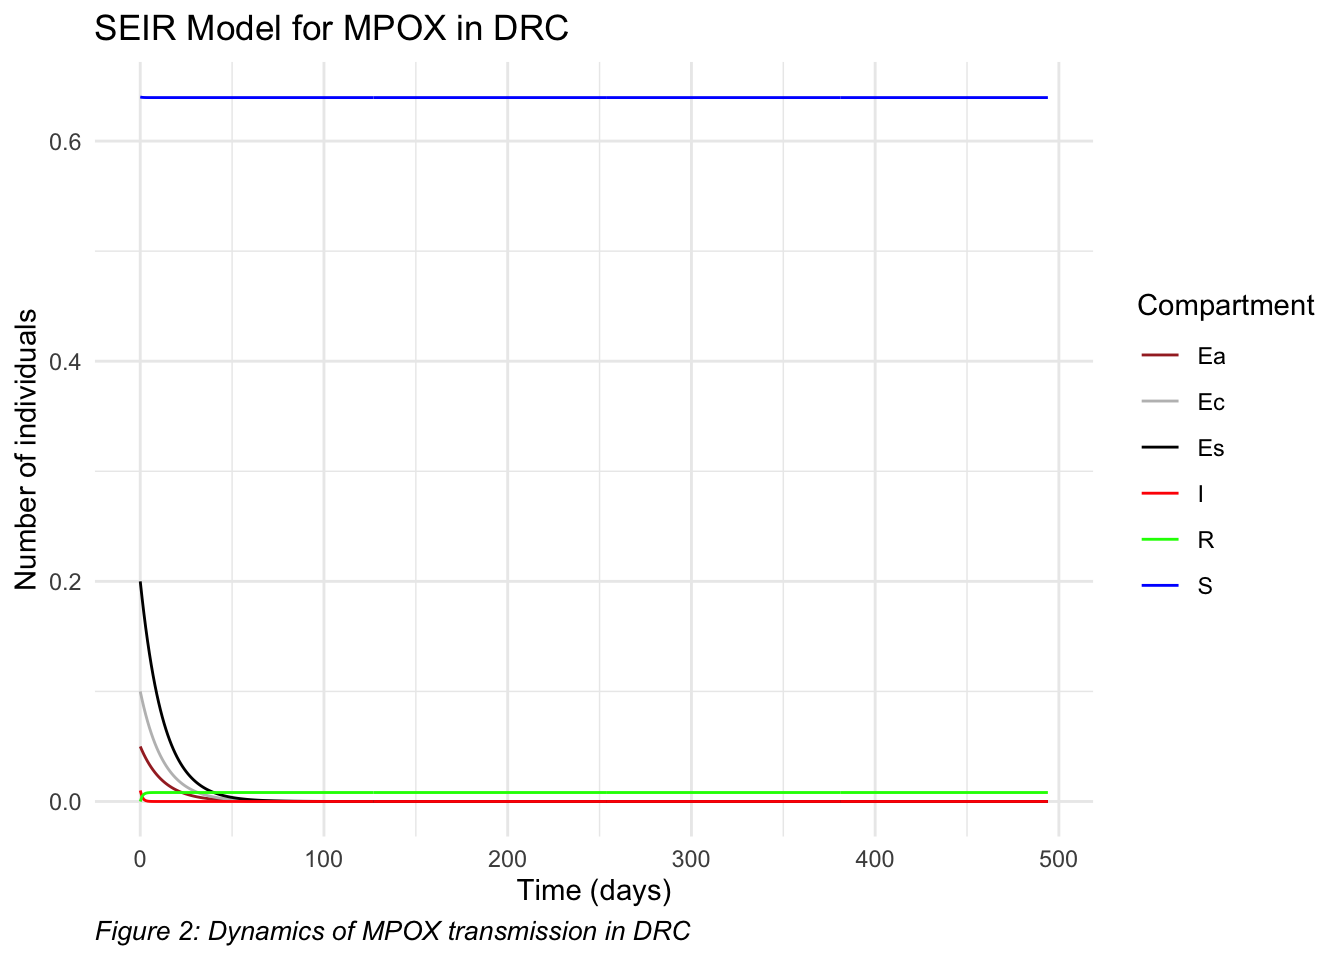
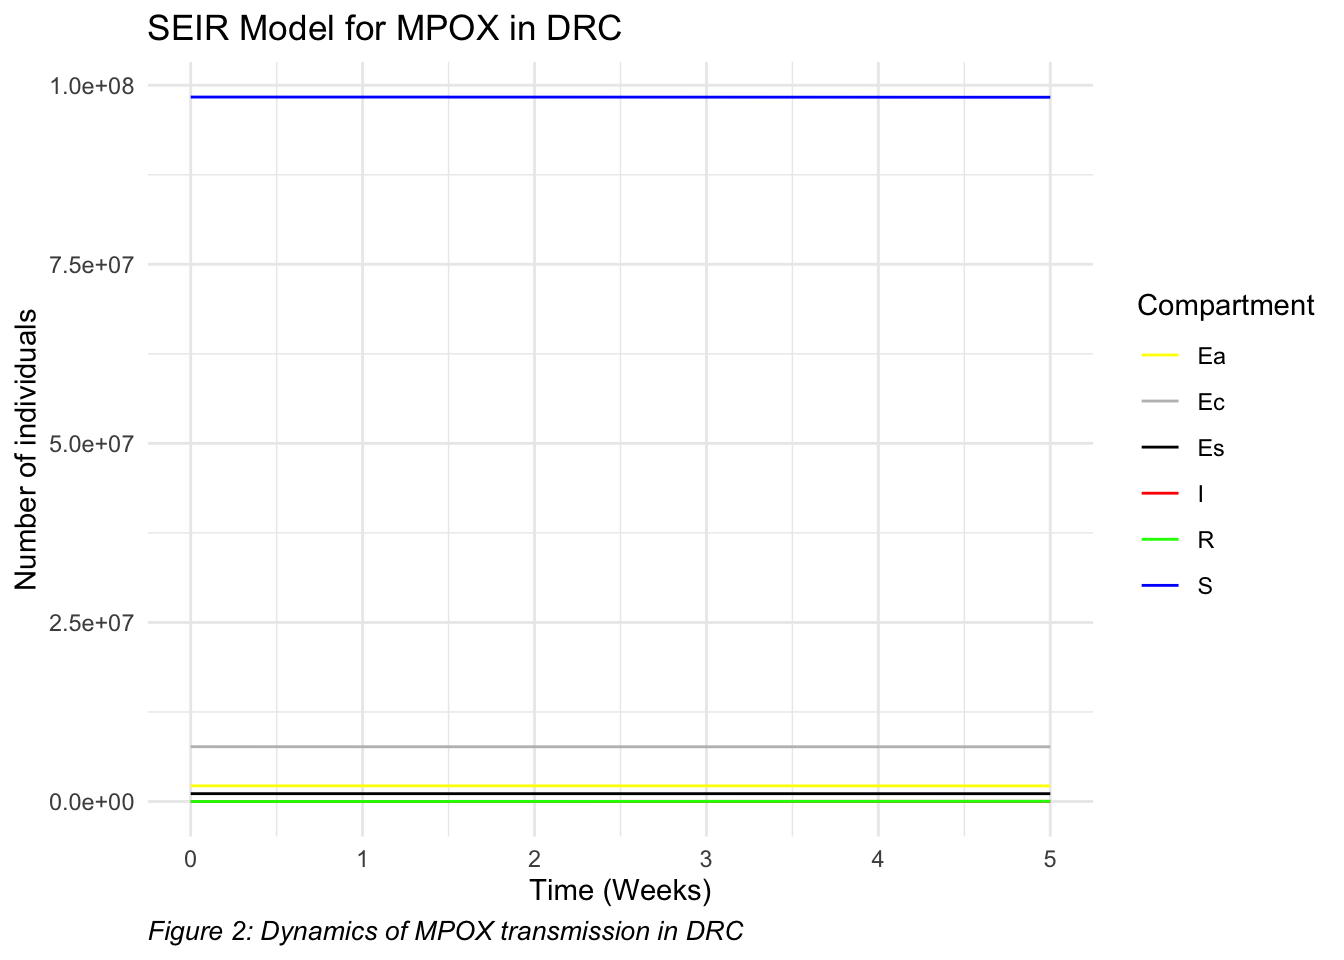
upgraged graph stimulated

diff --git a/mpox.html b/mpox.html
@@ -185,27 +185,24 @@ window.Quarto = {
 </section>
 <section id="set-parameters-and-initial-states" class="level1">
 <h1>Set parameters and initial states</h1>
-<p>N= 1 (Total Population)</p>
-<p>I0 = 0.01 (Initial Infected)</p>
-<p>R0 = 0 (Initial removed)</p>
 <div class="cell" data-layout-align="center">
-<div class="sourceCode cell-code" id="cb2"><pre class="sourceCode r code-with-copy"><code class="sourceCode r"><span id="cb2-1"><a href="#cb2-1" aria-hidden="true" tabindex="-1"></a>N <span class="ot">&lt;-</span> <span class="dv">1</span> <span class="co"># Total population</span></span>
-<span id="cb2-2"><a href="#cb2-2" aria-hidden="true" tabindex="-1"></a>Es0 <span class="ot">&lt;-</span> <span class="fl">0.2</span> </span>
-<span id="cb2-3"><a href="#cb2-3" aria-hidden="true" tabindex="-1"></a>Ec0 <span class="ot">&lt;-</span> <span class="fl">0.1</span></span>
-<span id="cb2-4"><a href="#cb2-4" aria-hidden="true" tabindex="-1"></a>Ea0 <span class="ot">&lt;-</span> <span class="fl">0.05</span>    </span>
-<span id="cb2-5"><a href="#cb2-5" aria-hidden="true" tabindex="-1"></a>I0 <span class="ot">&lt;-</span> <span class="fl">0.01</span> <span class="co"># Initial number of infected individuals </span></span>
+<div class="sourceCode cell-code" id="cb2"><pre class="sourceCode r code-with-copy"><code class="sourceCode r"><span id="cb2-1"><a href="#cb2-1" aria-hidden="true" tabindex="-1"></a>N <span class="ot">&lt;-</span> <span class="dv">109276265</span> <span class="co"># Total population</span></span>
+<span id="cb2-2"><a href="#cb2-2" aria-hidden="true" tabindex="-1"></a>Es0 <span class="ot">&lt;-</span> <span class="fl">0.01</span><span class="sc">*</span>N</span>
+<span id="cb2-3"><a href="#cb2-3" aria-hidden="true" tabindex="-1"></a>Ec0 <span class="ot">&lt;-</span> <span class="fl">0.07</span><span class="sc">*</span>N</span>
+<span id="cb2-4"><a href="#cb2-4" aria-hidden="true" tabindex="-1"></a>Ea0 <span class="ot">&lt;-</span> <span class="fl">0.02</span><span class="sc">*</span>N   </span>
+<span id="cb2-5"><a href="#cb2-5" aria-hidden="true" tabindex="-1"></a>I0 <span class="ot">&lt;-</span> <span class="dv">23</span> <span class="co"># Initial number of infected individuals </span></span>
 <span id="cb2-6"><a href="#cb2-6" aria-hidden="true" tabindex="-1"></a>R0 <span class="ot">&lt;-</span> <span class="dv">0</span> <span class="co"># Initial number of recovered individuals </span></span>
 <span id="cb2-7"><a href="#cb2-7" aria-hidden="true" tabindex="-1"></a>S0 <span class="ot">&lt;-</span> N <span class="sc">-</span> I0 <span class="sc">-</span> R0 <span class="sc">-</span> Es0 <span class="sc">-</span> Ec0 <span class="sc">-</span> Ea0 <span class="co"># Initial number of susceptible individuals </span></span>
-<span id="cb2-8"><a href="#cb2-8" aria-hidden="true" tabindex="-1"></a>beta1 <span class="ot">&lt;-</span> <span class="fl">0.05</span> <span class="co"># Transmission rate by sexual contact</span></span>
-<span id="cb2-9"><a href="#cb2-9" aria-hidden="true" tabindex="-1"></a>beta2 <span class="ot">&lt;-</span> <span class="fl">0.01</span>  <span class="co"># Transmission rate by direct contact</span></span>
-<span id="cb2-10"><a href="#cb2-10" aria-hidden="true" tabindex="-1"></a>beta3 <span class="ot">&lt;-</span> <span class="fl">0.005</span>  <span class="co"># Transmission rate by airborne</span></span>
-<span id="cb2-11"><a href="#cb2-11" aria-hidden="true" tabindex="-1"></a>omega <span class="ot">&lt;-</span> <span class="fl">0.08</span>   <span class="co"># Infected rate from different transmission routes</span></span>
-<span id="cb2-12"><a href="#cb2-12" aria-hidden="true" tabindex="-1"></a>theta <span class="ot">&lt;-</span> <span class="fl">0.7</span>    <span class="co"># Recovery rate of infected individuals due to all other unreported causes</span></span>
-<span id="cb2-13"><a href="#cb2-13" aria-hidden="true" tabindex="-1"></a>lambda <span class="ot">&lt;-</span> <span class="fl">0.2</span>  <span class="co"># death rate due the mpox </span></span></code><button title="Copy to Clipboard" class="code-copy-button"><i class="bi"></i></button></pre></div>
+<span id="cb2-8"><a href="#cb2-8" aria-hidden="true" tabindex="-1"></a>beta1 <span class="ot">&lt;-</span> <span class="fl">0.01</span> <span class="co"># Transmission rate by sexual contact</span></span>
+<span id="cb2-9"><a href="#cb2-9" aria-hidden="true" tabindex="-1"></a>beta2 <span class="ot">&lt;-</span> <span class="fl">0.4</span>  <span class="co"># Transmission rate by direct contact</span></span>
+<span id="cb2-10"><a href="#cb2-10" aria-hidden="true" tabindex="-1"></a>beta3 <span class="ot">&lt;-</span> <span class="fl">0.02</span>  <span class="co"># Transmission rate by airborne</span></span>
+<span id="cb2-11"><a href="#cb2-11" aria-hidden="true" tabindex="-1"></a>omega <span class="ot">&lt;-</span> <span class="fl">0.001</span>   <span class="co"># Infected rate from different transmission routes</span></span>
+<span id="cb2-12"><a href="#cb2-12" aria-hidden="true" tabindex="-1"></a>theta <span class="ot">&lt;-</span> <span class="dv">1</span><span class="sc">/</span><span class="dv">2</span>    <span class="co"># Recovery rate of infected individuals due to all other unreported causes</span></span>
+<span id="cb2-13"><a href="#cb2-13" aria-hidden="true" tabindex="-1"></a><span class="co">#lambda &lt;- 1/I0  # death rate due the mpox i.e total death by total population </span></span></code><button title="Copy to Clipboard" class="code-copy-button"><i class="bi"></i></button></pre></div>
 </div>
 </section>
-<section id="intial-states" class="level1">
-<h1>Intial states</h1>
+<section id="initial-states" class="level1">
+<h1>Initial states</h1>
 </section>
 <section id="parameters" class="level1">
 <h1>Parameters</h1>
@@ -213,17 +210,17 @@ window.Quarto = {
 <section id="time" class="level1">
 <h1>Time</h1>
 <div class="cell" data-layout-align="center">
-<div class="sourceCode cell-code" id="cb3"><pre class="sourceCode r code-with-copy"><code class="sourceCode r"><span id="cb3-1"><a href="#cb3-1" aria-hidden="true" tabindex="-1"></a>first_case_date <span class="ot">&lt;-</span> <span class="fu">ymd</span>(<span class="st">"2022-01-09"</span>)  <span class="co"># Date of first case</span></span>
+<div class="sourceCode cell-code" id="cb3"><pre class="sourceCode r code-with-copy"><code class="sourceCode r"><span id="cb3-1"><a href="#cb3-1" aria-hidden="true" tabindex="-1"></a>first_case_date <span class="ot">&lt;-</span> <span class="fu">ymd</span>(<span class="st">"2024-01-07"</span>)  <span class="co"># Date of first case</span></span>
 <span id="cb3-2"><a href="#cb3-2" aria-hidden="true" tabindex="-1"></a>end_date <span class="ot">&lt;-</span> <span class="fu">ymd</span>(<span class="st">"2024-09-24"</span>)  <span class="co"># End date</span></span>
 <span id="cb3-3"><a href="#cb3-3" aria-hidden="true" tabindex="-1"></a></span>
 <span id="cb3-4"><a href="#cb3-4" aria-hidden="true" tabindex="-1"></a>duration <span class="ot">&lt;-</span> <span class="fu">as.numeric</span>(end_date <span class="sc">-</span> first_case_date)</span>
-<span id="cb3-5"><a href="#cb3-5" aria-hidden="true" tabindex="-1"></a>duration <span class="ot">&lt;-</span> duration<span class="sc">/</span><span class="dv">2</span></span>
+<span id="cb3-5"><a href="#cb3-5" aria-hidden="true" tabindex="-1"></a>duration <span class="ot">&lt;-</span> duration<span class="sc">/</span><span class="dv">52</span></span>
 <span id="cb3-6"><a href="#cb3-6" aria-hidden="true" tabindex="-1"></a></span>
 <span id="cb3-7"><a href="#cb3-7" aria-hidden="true" tabindex="-1"></a>times <span class="ot">&lt;-</span> <span class="fu">seq</span>(<span class="dv">0</span>, duration, <span class="at">by =</span> <span class="dv">1</span>)</span></code><button title="Copy to Clipboard" class="code-copy-button"><i class="bi"></i></button></pre></div>
 </div>
 </section>
 <section id="solve-model" class="level1">
-<h1>solve model</h1>
+<h1>Solve model</h1>
 <div class="cell" data-layout-align="center">
 <div class="sourceCode cell-code" id="cb4"><pre class="sourceCode r code-with-copy"><code class="sourceCode r"><span id="cb4-1"><a href="#cb4-1" aria-hidden="true" tabindex="-1"></a>solution <span class="ot">&lt;-</span>  <span class="fu">lsoda</span>(</span>
 <span id="cb4-2"><a href="#cb4-2" aria-hidden="true" tabindex="-1"></a>  <span class="at">y=</span>initial_state,</span>
@@ -235,25 +232,30 @@ window.Quarto = {
 <span id="cb4-8"><a href="#cb4-8" aria-hidden="true" tabindex="-1"></a>df <span class="ot">&lt;-</span> <span class="fu">as.data.frame</span>(solution) <span class="co">#convert to dataframe</span></span></code><button title="Copy to Clipboard" class="code-copy-button"><i class="bi"></i></button></pre></div>
 </div>
 </section>
+<section id="section" class="level1">
+<h1></h1>
+</section>
 <section id="plot" class="level1">
 <h1>Plot</h1>
 <div class="cell" data-layout-align="center">
-<div class="sourceCode cell-code" id="cb5"><pre class="sourceCode r code-with-copy"><code class="sourceCode r"><span id="cb5-1"><a href="#cb5-1" aria-hidden="true" tabindex="-1"></a>result_long <span class="ot">&lt;-</span> <span class="fu">pivot_longer</span>(df, <span class="at">cols =</span> <span class="sc">-</span>time, <span class="at">names_to =</span> <span class="st">"Compartment"</span>, <span class="at">values_to =</span> <span class="st">"Population"</span>)</span>
+<div class="sourceCode cell-code" id="cb5"><pre class="sourceCode r code-with-copy"><code class="sourceCode r"><span id="cb5-1"><a href="#cb5-1" aria-hidden="true" tabindex="-1"></a>result_long <span class="ot">&lt;-</span> <span class="fu">pivot_longer</span>(df, <span class="at">cols =</span> <span class="sc">-</span>time , <span class="at">names_to =</span> <span class="st">"Compartment"</span>, <span class="at">values_to =</span> <span class="st">"Population"</span>)</span>
 <span id="cb5-2"><a href="#cb5-2" aria-hidden="true" tabindex="-1"></a></span>
-<span id="cb5-3"><a href="#cb5-3" aria-hidden="true" tabindex="-1"></a><span class="fu">ggplot</span>(result_long, <span class="fu">aes</span>(<span class="at">x =</span> time, </span>
+<span id="cb5-3"><a href="#cb5-3" aria-hidden="true" tabindex="-1"></a>p<span class="ot">=</span><span class="fu">ggplot</span>(result_long, <span class="fu">aes</span>(<span class="at">x =</span> time, </span>
 <span id="cb5-4"><a href="#cb5-4" aria-hidden="true" tabindex="-1"></a>                        <span class="at">y =</span> Population, </span>
 <span id="cb5-5"><a href="#cb5-5" aria-hidden="true" tabindex="-1"></a>                        <span class="at">color =</span> Compartment)) <span class="sc">+</span></span>
 <span id="cb5-6"><a href="#cb5-6" aria-hidden="true" tabindex="-1"></a>  <span class="fu">geom_line</span>() <span class="sc">+</span></span>
-<span id="cb5-7"><a href="#cb5-7" aria-hidden="true" tabindex="-1"></a>  <span class="fu">labs</span>(<span class="at">x =</span> <span class="st">"Time (days)"</span>, <span class="at">y =</span> <span class="st">"Number of individuals"</span>,</span>
+<span id="cb5-7"><a href="#cb5-7" aria-hidden="true" tabindex="-1"></a>  <span class="fu">labs</span>(<span class="at">x =</span> <span class="st">"Time (Weeks)"</span>, <span class="at">y =</span> <span class="st">"Number of individuals"</span>,</span>
 <span id="cb5-8"><a href="#cb5-8" aria-hidden="true" tabindex="-1"></a>       <span class="at">title =</span> <span class="st">"SEIR Model for MPOX in DRC"</span>,</span>
 <span id="cb5-9"><a href="#cb5-9" aria-hidden="true" tabindex="-1"></a>       <span class="at">caption =</span> <span class="st">"Figure 2: Dynamics of MPOX transmission in DRC"</span>) <span class="sc">+</span></span>
-<span id="cb5-10"><a href="#cb5-10" aria-hidden="true" tabindex="-1"></a>  <span class="fu">scale_color_manual</span>(<span class="at">values =</span> <span class="fu">c</span>(<span class="st">"S"</span> <span class="ot">=</span> <span class="st">"blue"</span>, </span>
-<span id="cb5-11"><a href="#cb5-11" aria-hidden="true" tabindex="-1"></a>                                <span class="st">"Es"</span> <span class="ot">=</span> <span class="st">"black"</span>,</span>
+<span id="cb5-10"><a href="#cb5-10" aria-hidden="true" tabindex="-1"></a>  <span class="fu">scale_color_manual</span>(<span class="at">values =</span> <span class="fu">c</span>( <span class="st">"S"</span> <span class="ot">=</span> <span class="st">"blue"</span>,</span>
+<span id="cb5-11"><a href="#cb5-11" aria-hidden="true" tabindex="-1"></a>                                 <span class="st">"Es"</span> <span class="ot">=</span> <span class="st">"black"</span>,</span>
 <span id="cb5-12"><a href="#cb5-12" aria-hidden="true" tabindex="-1"></a>                                <span class="st">"Ec"</span> <span class="ot">=</span> <span class="st">"grey"</span>,</span>
-<span id="cb5-13"><a href="#cb5-13" aria-hidden="true" tabindex="-1"></a>                                <span class="st">"Ea"</span> <span class="ot">=</span> <span class="st">"brown"</span>,</span>
+<span id="cb5-13"><a href="#cb5-13" aria-hidden="true" tabindex="-1"></a>                                <span class="st">"Ea"</span> <span class="ot">=</span> <span class="st">"yellow"</span>,</span>
 <span id="cb5-14"><a href="#cb5-14" aria-hidden="true" tabindex="-1"></a>                                <span class="st">"I"</span> <span class="ot">=</span> <span class="st">"red"</span>, <span class="st">"R"</span> <span class="ot">=</span> <span class="st">"green"</span>)) <span class="sc">+</span></span>
 <span id="cb5-15"><a href="#cb5-15" aria-hidden="true" tabindex="-1"></a>  <span class="fu">theme_minimal</span>()<span class="sc">+</span></span>
-<span id="cb5-16"><a href="#cb5-16" aria-hidden="true" tabindex="-1"></a>    <span class="fu">theme</span>(<span class="at">plot.caption =</span> <span class="fu">element_text</span>(<span class="at">hjust =</span> <span class="dv">0</span>, <span class="at">size =</span> <span class="dv">10</span>, <span class="at">face =</span> <span class="st">"italic"</span>))</span></code><button title="Copy to Clipboard" class="code-copy-button"><i class="bi"></i></button></pre></div>
+<span id="cb5-16"><a href="#cb5-16" aria-hidden="true" tabindex="-1"></a>    <span class="fu">theme</span>(<span class="at">plot.caption =</span> <span class="fu">element_text</span>(<span class="at">hjust =</span> <span class="dv">0</span>, <span class="at">size =</span> <span class="dv">10</span>, <span class="at">face =</span> <span class="st">"italic"</span>))</span>
+<span id="cb5-17"><a href="#cb5-17" aria-hidden="true" tabindex="-1"></a></span>
+<span id="cb5-18"><a href="#cb5-18" aria-hidden="true" tabindex="-1"></a>p</span></code><button title="Copy to Clipboard" class="code-copy-button"><i class="bi"></i></button></pre></div>
 <div class="cell-output-display">
 <div class="quarto-figure quarto-figure-center">
 <figure class="figure">
